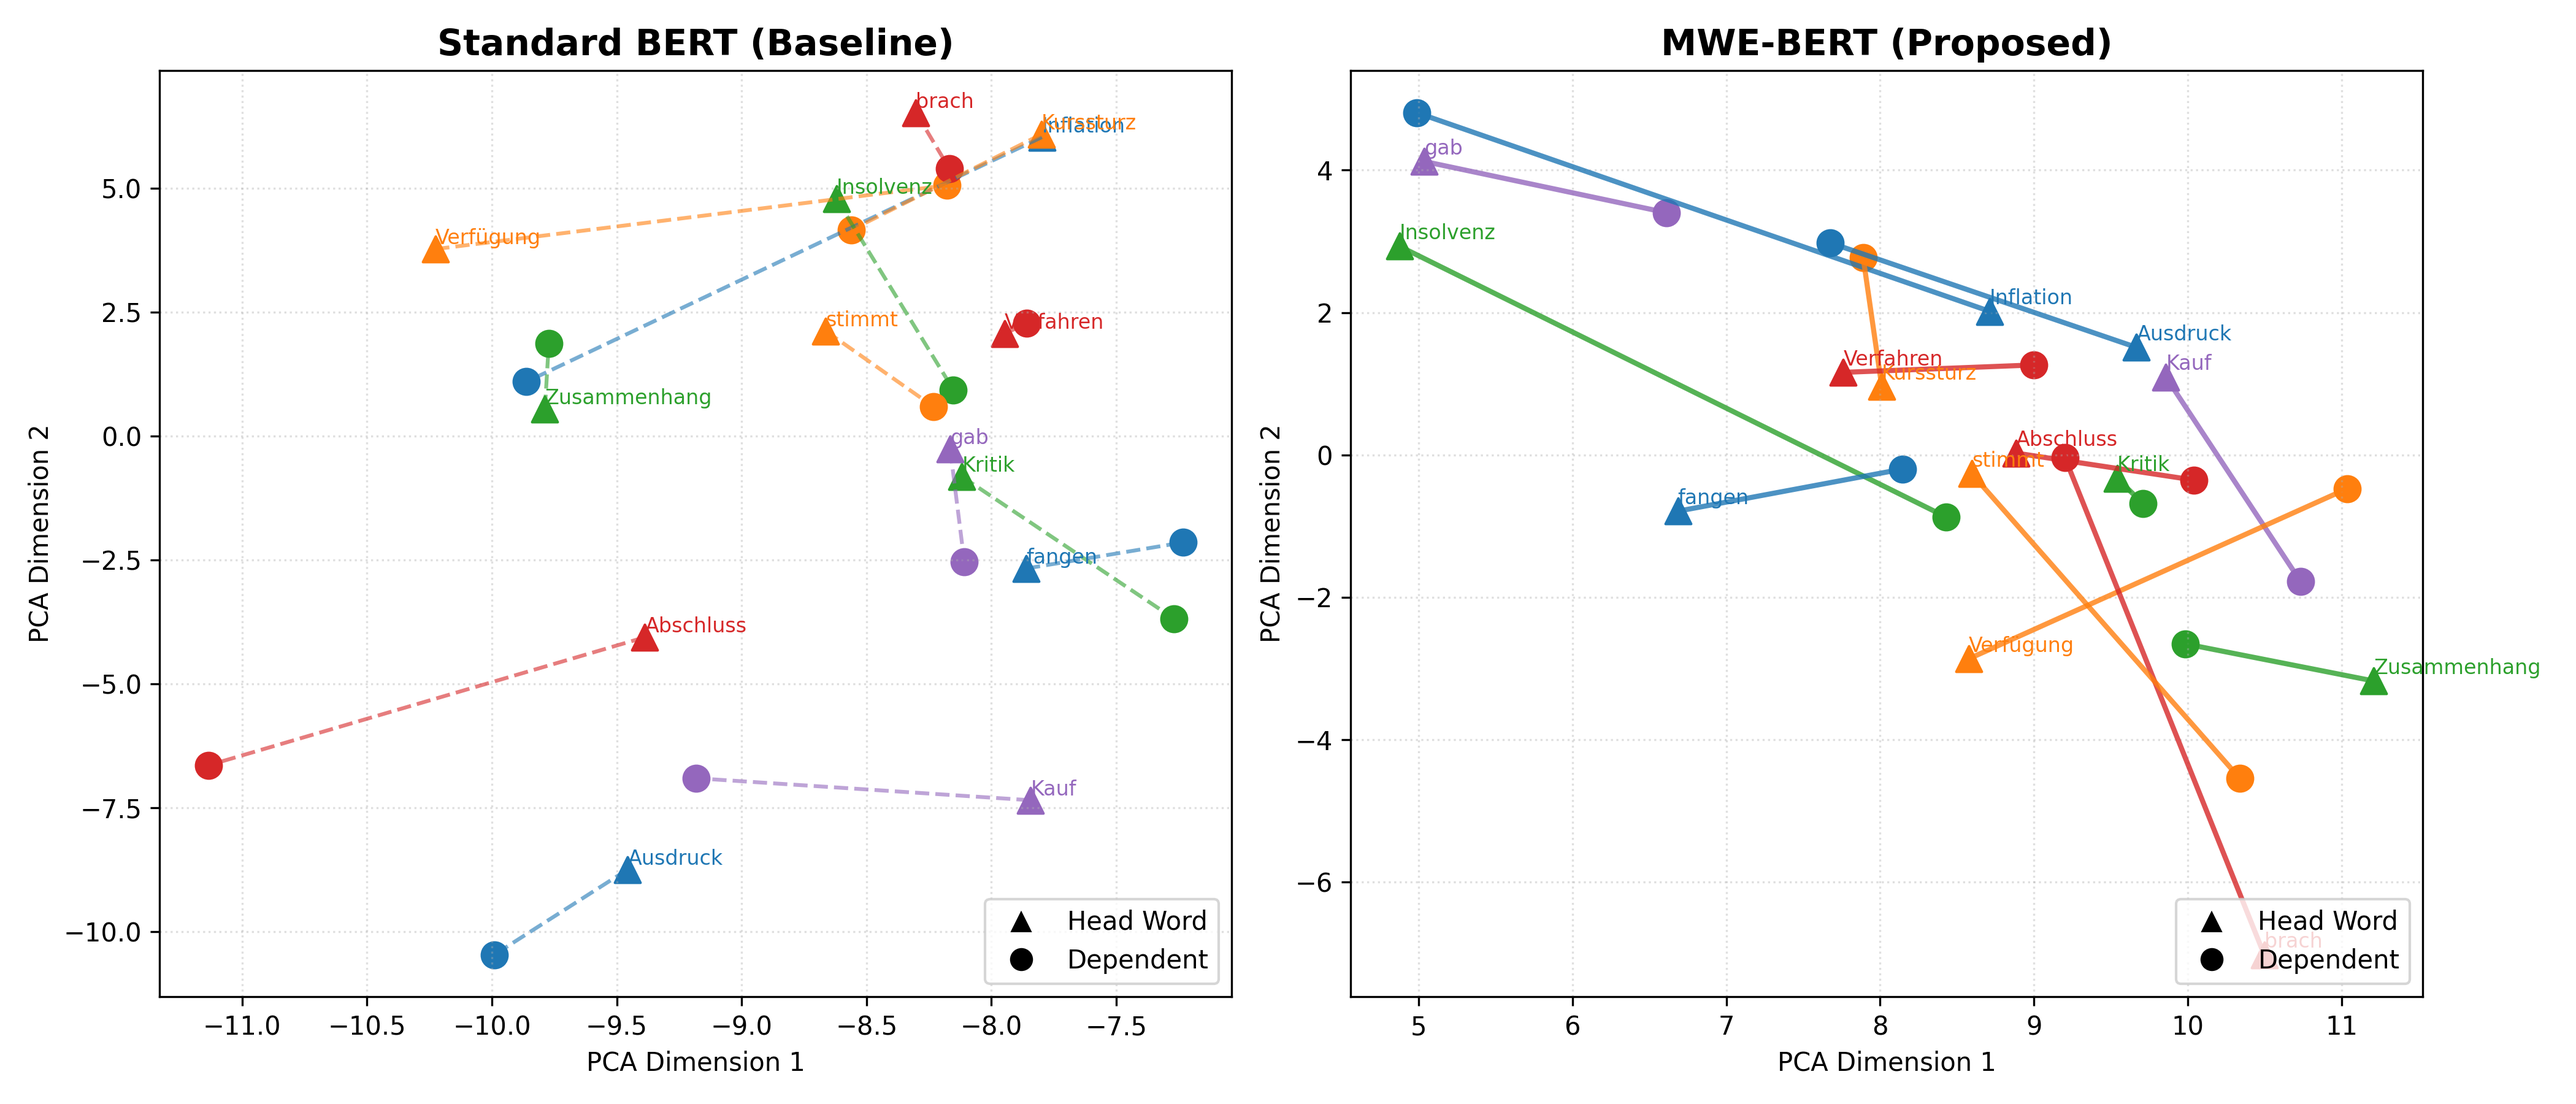
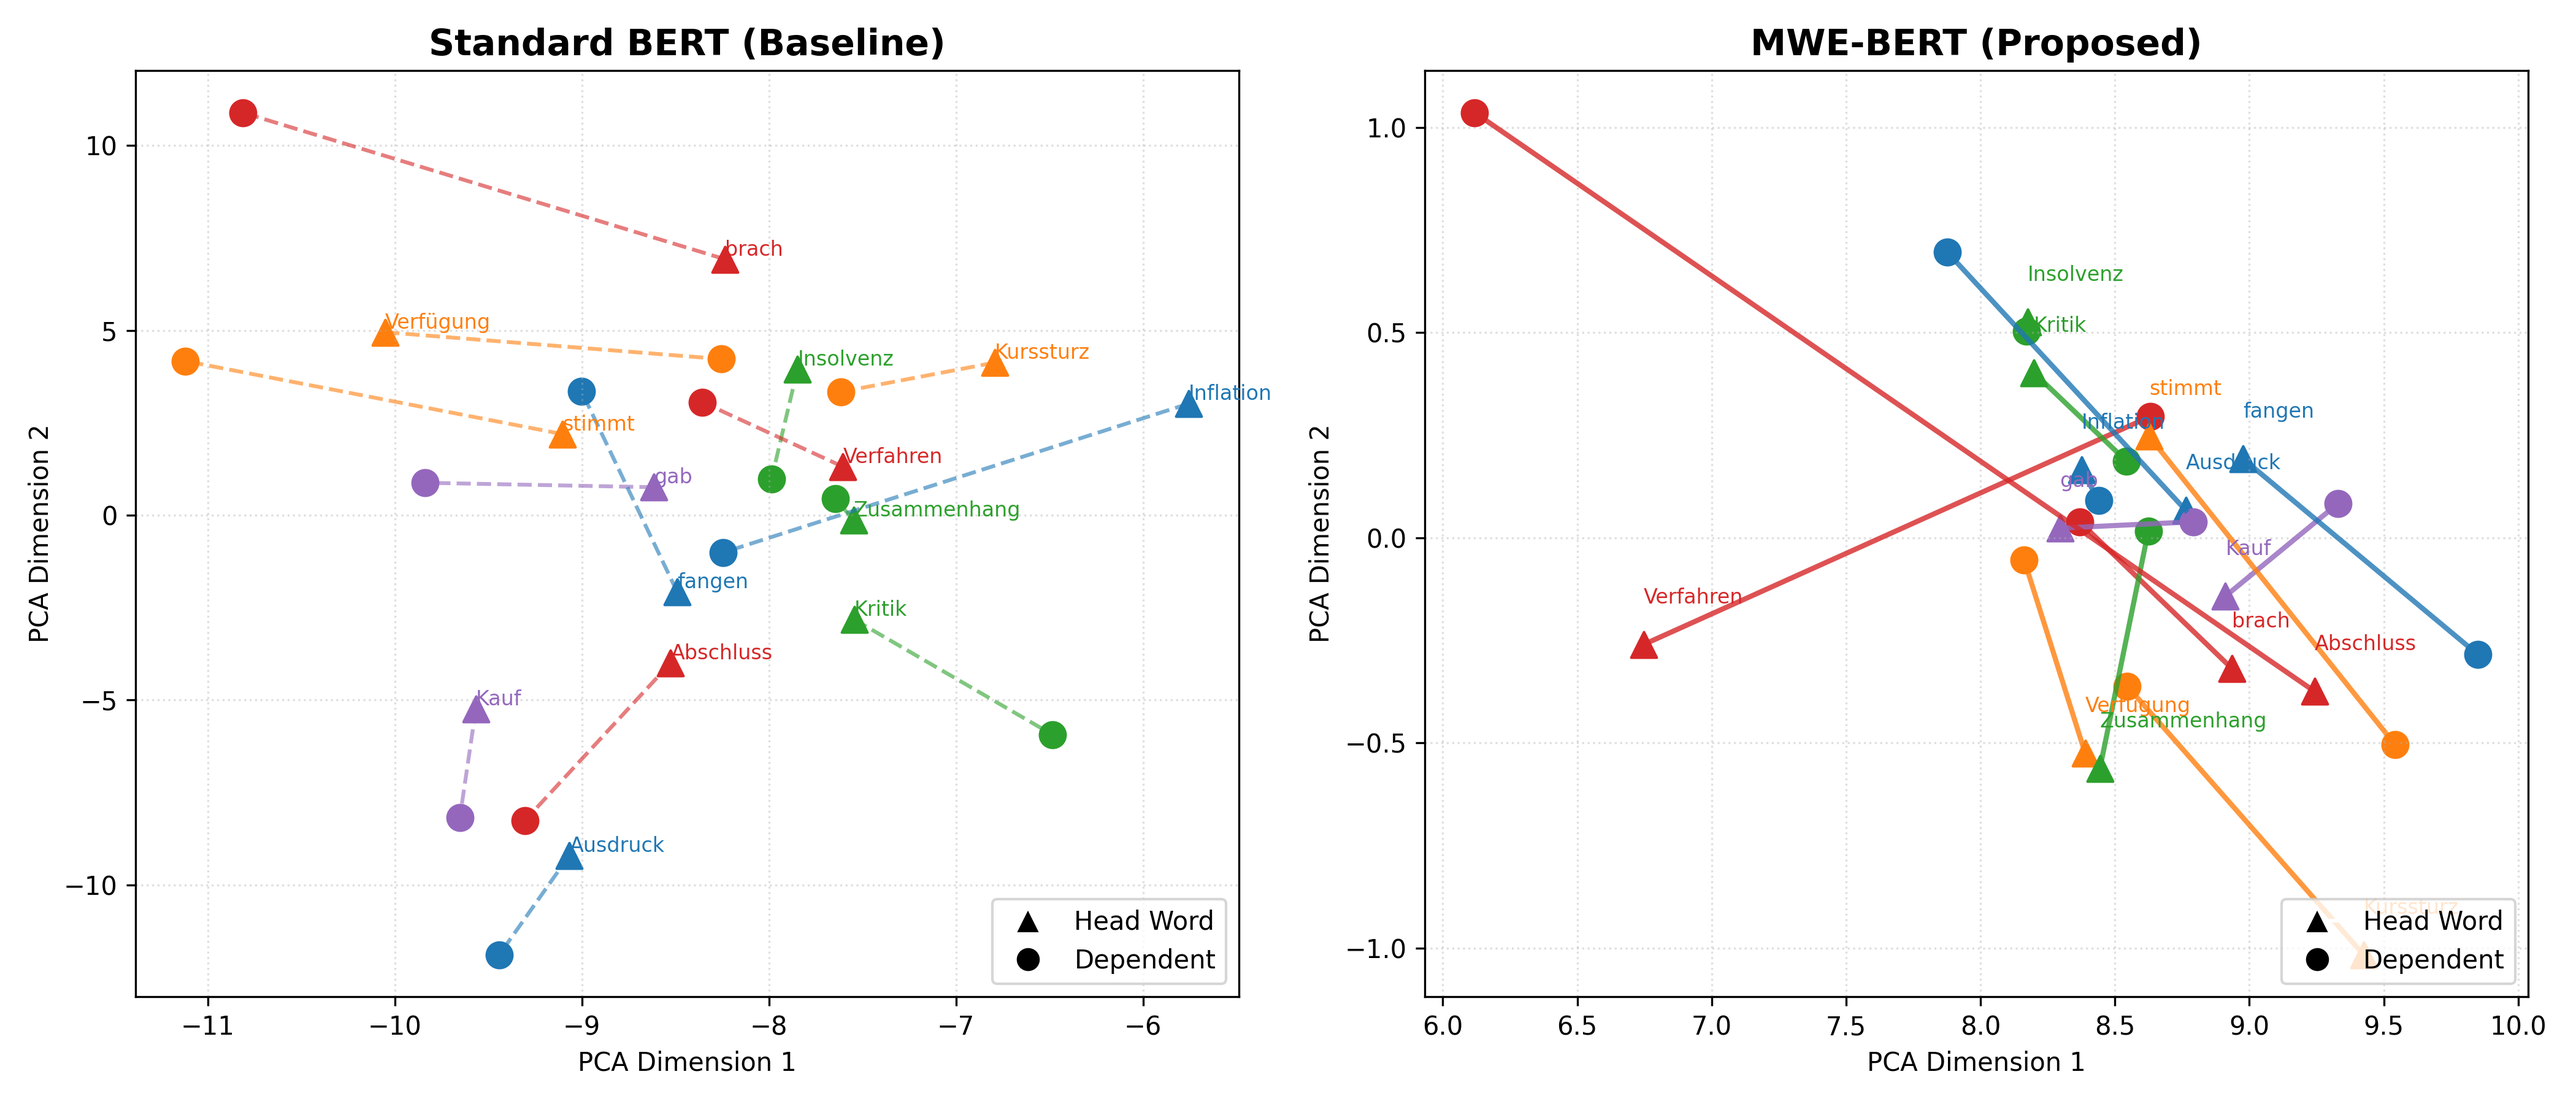
5 epoch results

diff --git a/main.py b/main.py
@@ -167,9 +167,9 @@ if __name__ == "__main__":
     dataset = FinancialMWEDataset(financial_corpus, processor)
     dataloader = DataLoader(dataset, batch_size=8, shuffle=True)
 
-    # --- STEP C: TRAINING PHASES (The Fix for Forgetting) ---
+    # --- STEP C: TRAINING PHASES ---
     print("\n[3/5] Configuring Training Strategy...")
-    epochs = 3
+    epochs = 5
 
     # PHASE 1: FREEZE BASE BERT (Epoch 0)
     # We only train the NEW Phrase Embeddings and the Head.

diff --git a/readme.md b/readme.md
@@ -6,7 +6,7 @@ This repository contains the algorithm and implementation for the research paper
 
 The study introduces a novel **Head-Based Masking Technique** and a **4-Component Embedding Architecture** ($E_{token} + P_{intra} + E_{phrase} + P_{inter}$) to improve the numerical representation of Multi-Word Expressions (MWEs) in German financial and journalistic texts.
 
-The goal is to solve the "Distributed Semantic" problem (e.g., Separable Verbs like *brach... ein*) by forcing the model to treat distant components as a single semantic unit.
+The goal is to solve the "Distributed Semantic" problem (e.g., Separable Verbs like *brach... ein*) by forcing the model to treat distant components as a single semantic unit, creating tighter vector clusters for domain-specific terminology.
 
 ## Visual Results
 
@@ -21,7 +21,7 @@ The evaluation script generates a PCA projection showing how the custom model "p
 ```
 ├── MWEProcessor.py          # Pre-processing, Chunking, Attention Masks, Dual Masking
 ├── MWEBertEmbeddings.py     # Custom Neural Architecture (The 4-Component Sum)
-├── main.py                  # 2-Phase Training Loop (Freeze -> Fine-tune)
+├── main.py                  # Encoder Training (Freeze -> Fine-tune)
 ├── evaluation.py            # Metric Calculation (Cosine/Euclidean) & Visualization
 └── README.md                # Documentation
 ```
@@ -29,7 +29,8 @@ The evaluation script generates a PCA projection showing how the custom model "p
 ## Installation & Setup
 
 ### Environment
-- Python 3.8+
+
+- Python 3.8+ (Note: Python 3.11 or 3.12 recommended; 3.14 is currently unsupported)
 
 ### Dependencies
 
@@ -49,7 +50,7 @@ python -m spacy download de_core_news_lg
 
 ### 1. Training (main.py)
 
-The training script automatically downloads the Europarl (DE-EL) dataset and filters for complex journalistic sentences.
+The training script automatically downloads the Europarl (DE-EL) dataset, filters for complex journalistic sentences, and trains the custom German Encoder.
 
 It implements a **Two-Phase Training Strategy** to prevent Catastrophic Forgetting:
 
@@ -60,7 +61,7 @@ It implements a **Two-Phase Training Strategy** to prevent Catastrophic Forgetti
 python main.py
 ```
 
-**Output:** Saves the model weights, config, and tokenizer to `./financial_mwe_bert_output`.
+**Output:** Saves the encoder weights to `./financial_mwe_bert_output`.
 
 ### 2. Evaluation (evaluation.py)
 
@@ -75,42 +76,37 @@ It tests against a curated list of Financial Causality, Separable Verbs, and Fix
 python evaluation.py
 ```
 
-**Output:** Prints a metrics table to the console and generates `paper_visualization.png`.
+**Output:** Prints the results table to the console and generates `paper_visualization.png`.
 
 ## Evaluation Results
 
-The evaluation script tests the model on a curated test set (defined in `evaluation.py` under the `TEST_SET` array) containing 14 MWE pairs across four categories:
-
-1. **Financial Causality & Events** (3 pairs)
-2. **Functional Verb Constructions** (5 pairs)
-3. **Separable Verbs** (4 pairs)
-4. **Journalistic Phrasing** (2 pairs)
+The evaluation script tests the model on a curated test set (defined in `evaluation.py`) containing 14 MWE pairs across four categories: Financial Causality, Functional Verbs, Separable Verbs, and Journalistic Phrasing.
 
 ### Results Table
 
 | MWE Pair | Cos Sim (Std) | Cos Sim (MWE) | Improvement |
 |----------|---------------|---------------|-------------|
-| Inflation - erhöhen | 0.6114 | 0.7522 | +23.04% |
-| Kurssturz - verloren | 0.5572 | 0.6790 | +21.86% |
-| Insolvenz - anmelden | 0.6467 | 0.6554 | +1.35% |
-| Verfahren - einleiten | 0.7293 | 0.6911 | -5.23% |
-| Kauf - nehmen | 0.6117 | 0.8426 | +37.75% |
-| Ausdruck - bringen | 0.6636 | 0.7368 | +11.03% |
-| Verfügung - stellte | 0.6355 | 0.7234 | +13.83% |
-| Kritik - üben | 0.6184 | 0.8511 | +37.63% |
-| brach - ein | 0.5022 | 0.6714 | +33.70% |
-| gab - bekannt | 0.6260 | 0.8088 | +29.20% |
-| fangen - an | 0.4098 | 0.9451 | +130.64% |
-| stimmt - ab | 0.4095 | 0.6958 | +69.92% |
-| Zusammenhang - steht | 0.6405 | 0.8299 | +29.58% |
-| Abschluss - bringen | 0.5972 | 0.7425 | +24.32% |
-| **AVERAGE IMPROVEMENT** | | | **+32.76%** |
+| Inflation - erhöhen | 0.6114 | 0.8851 | +44.78% |
+| Kurssturz - verloren | 0.5572 | 0.8728 | +56.64% |
+| Insolvenz - anmelden | 0.6467 | 0.9804 | +51.62% |
+| Verfahren - einleiten | 0.7293 | 0.7087 | -2.83% |
+| Kauf - nehmen | 0.6117 | 0.9570 | +56.45% |
+| Ausdruck - bringen | 0.6636 | 0.8984 | +35.38% |
+| Verfügung - stellte | 0.6355 | 0.8647 | +36.07% |
+| Kritik - üben | 0.6184 | 0.9592 | +55.12% |
+| brach - ein | 0.5022 | 0.8624 | +71.73% |
+| gab - bekannt | 0.6260 | 0.9150 | +46.17% |
+| fangen - an | 0.4098 | 0.9417 | +129.81% |
+| stimmt - ab | 0.4095 | 0.9372 | +128.86% |
+| Zusammenhang - steht | 0.6405 | 0.8833 | +37.92% |
+| Abschluss - bringen | 0.5972 | 0.8251 | +38.15% |
+| **AVERAGE IMPROVEMENT** | | | **+56.13%** |
 
 ### Key Findings
 
-- The MWE-BERT model achieves an **average improvement of +32.76%** in cosine similarity compared to standard BERT
-- Separable verbs show the most dramatic improvements, with "fangen - an" achieving a **+130.64%** improvement
-- The model successfully captures semantic relationships in distant word pairs, addressing the "Distributed Semantic" problem
+- The MWE-BERT model achieves a significant **average improvement of +56.13%** in cosine similarity compared to standard BERT.
+- **Separable Verbs** show massive gains due to the Head-Based Masking technique connecting distant words. Notably, *fangen - an* improved by **+129.81%** and *stimmt - ab* by **+128.86%**.
+- **Financial Terminology** also benefited greatly, with the fixed expression *Insolvenz - anmelden* (File for Bankruptcy) improving by **+51.62%**, validating the model's domain adaptation capabilities.
 
 ## Technical Architecture Details
 
@@ -128,5 +124,5 @@ The evaluation script tests the model on a curated test set (defined in `evaluat
 
 ### main.py
 
-- **Manual Saving:** Uses `torch.save(model.state_dict())` because the custom `BilingualMWEBert` class wraps the Hugging Face model and requires manual weight serialization.
 - **Differential Optimization:** Uses AdamW with parameter groups to apply aggressive learning rates (1e-3) to new layers and conservative rates (2e-5) to pre-trained layers.
+- **Freezing Strategy:** Freezes the base BERT model during the first epoch to allow the new embedding structures to converge before fine-tuning the semantic weights.
